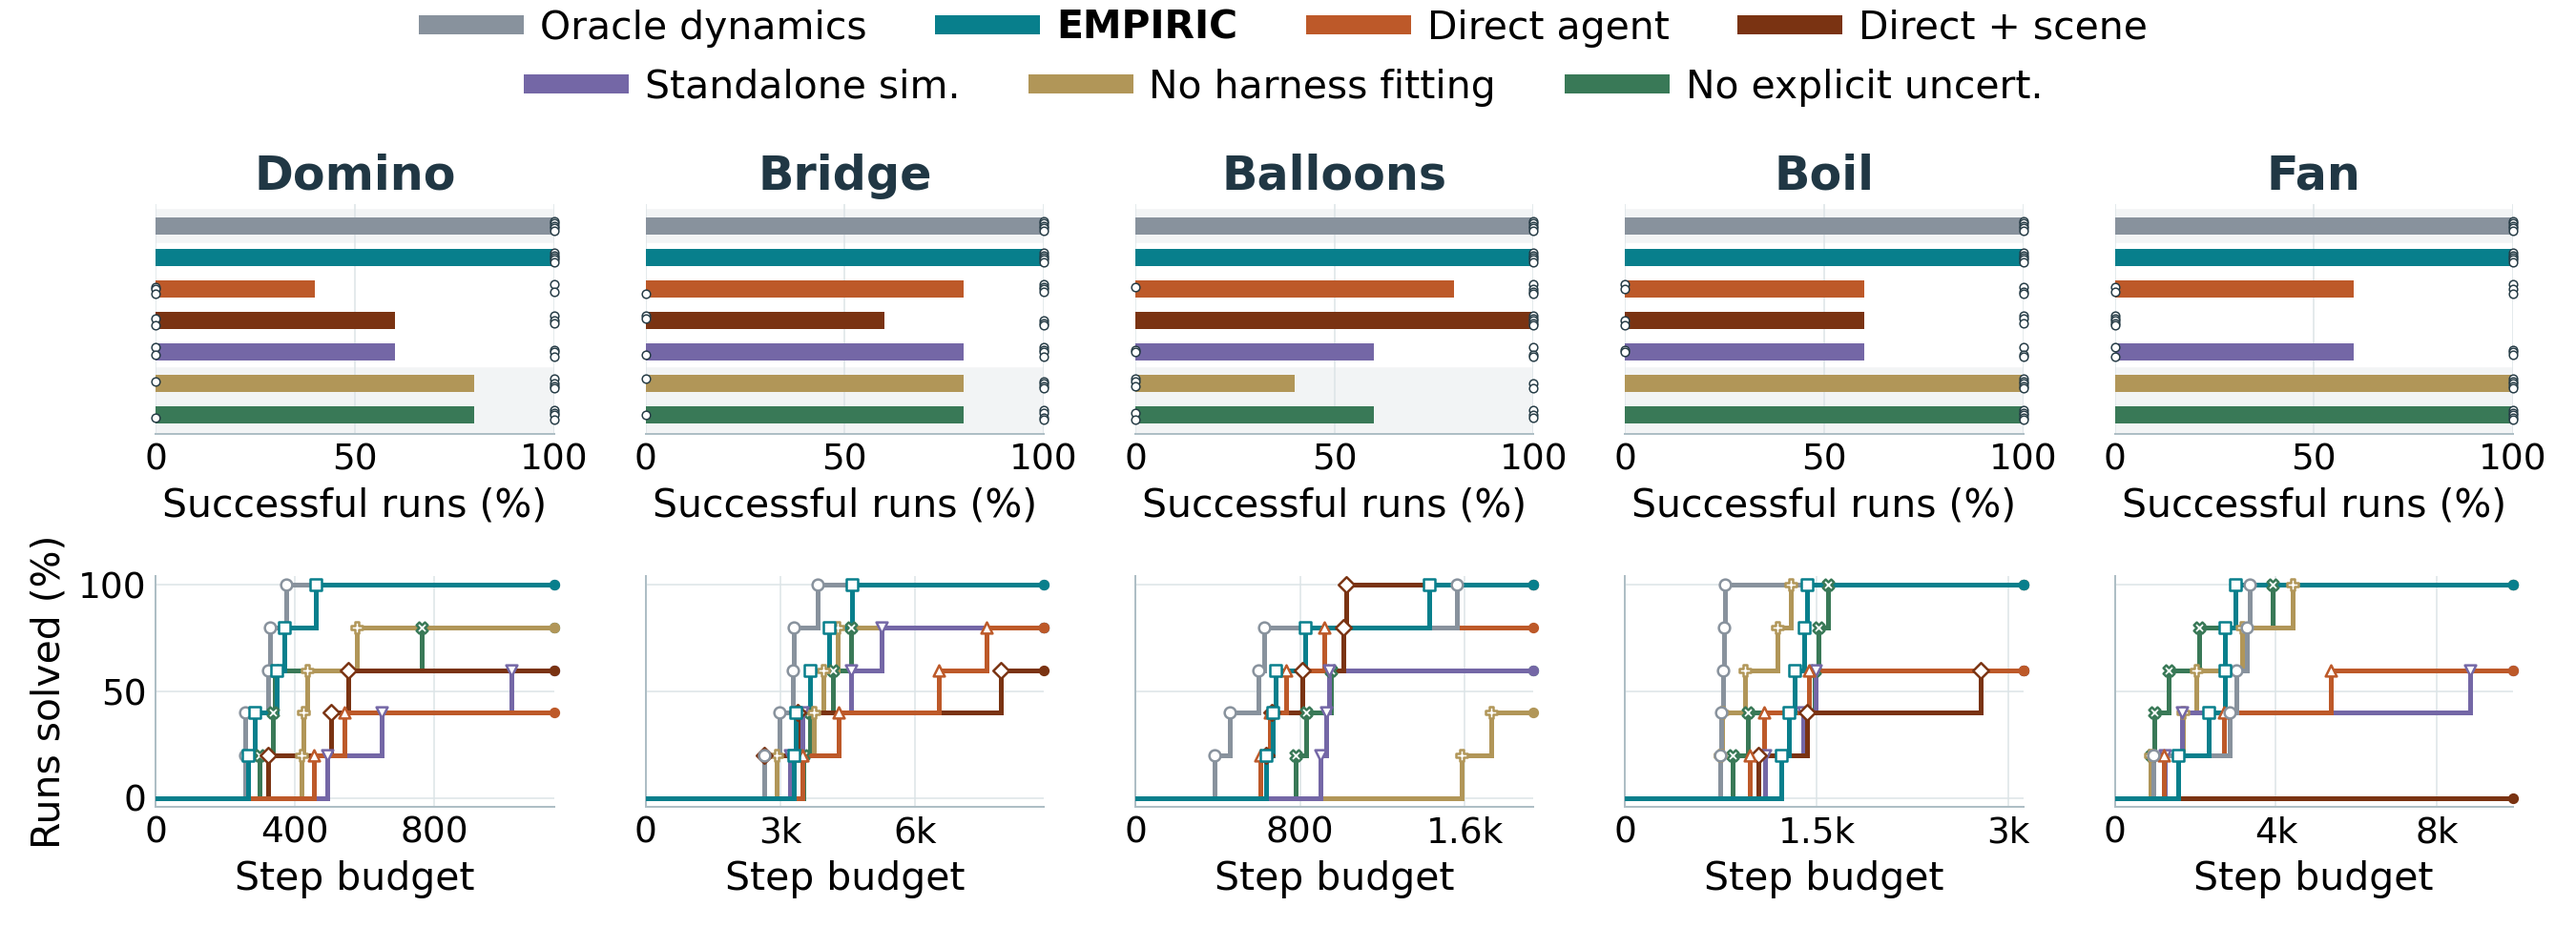
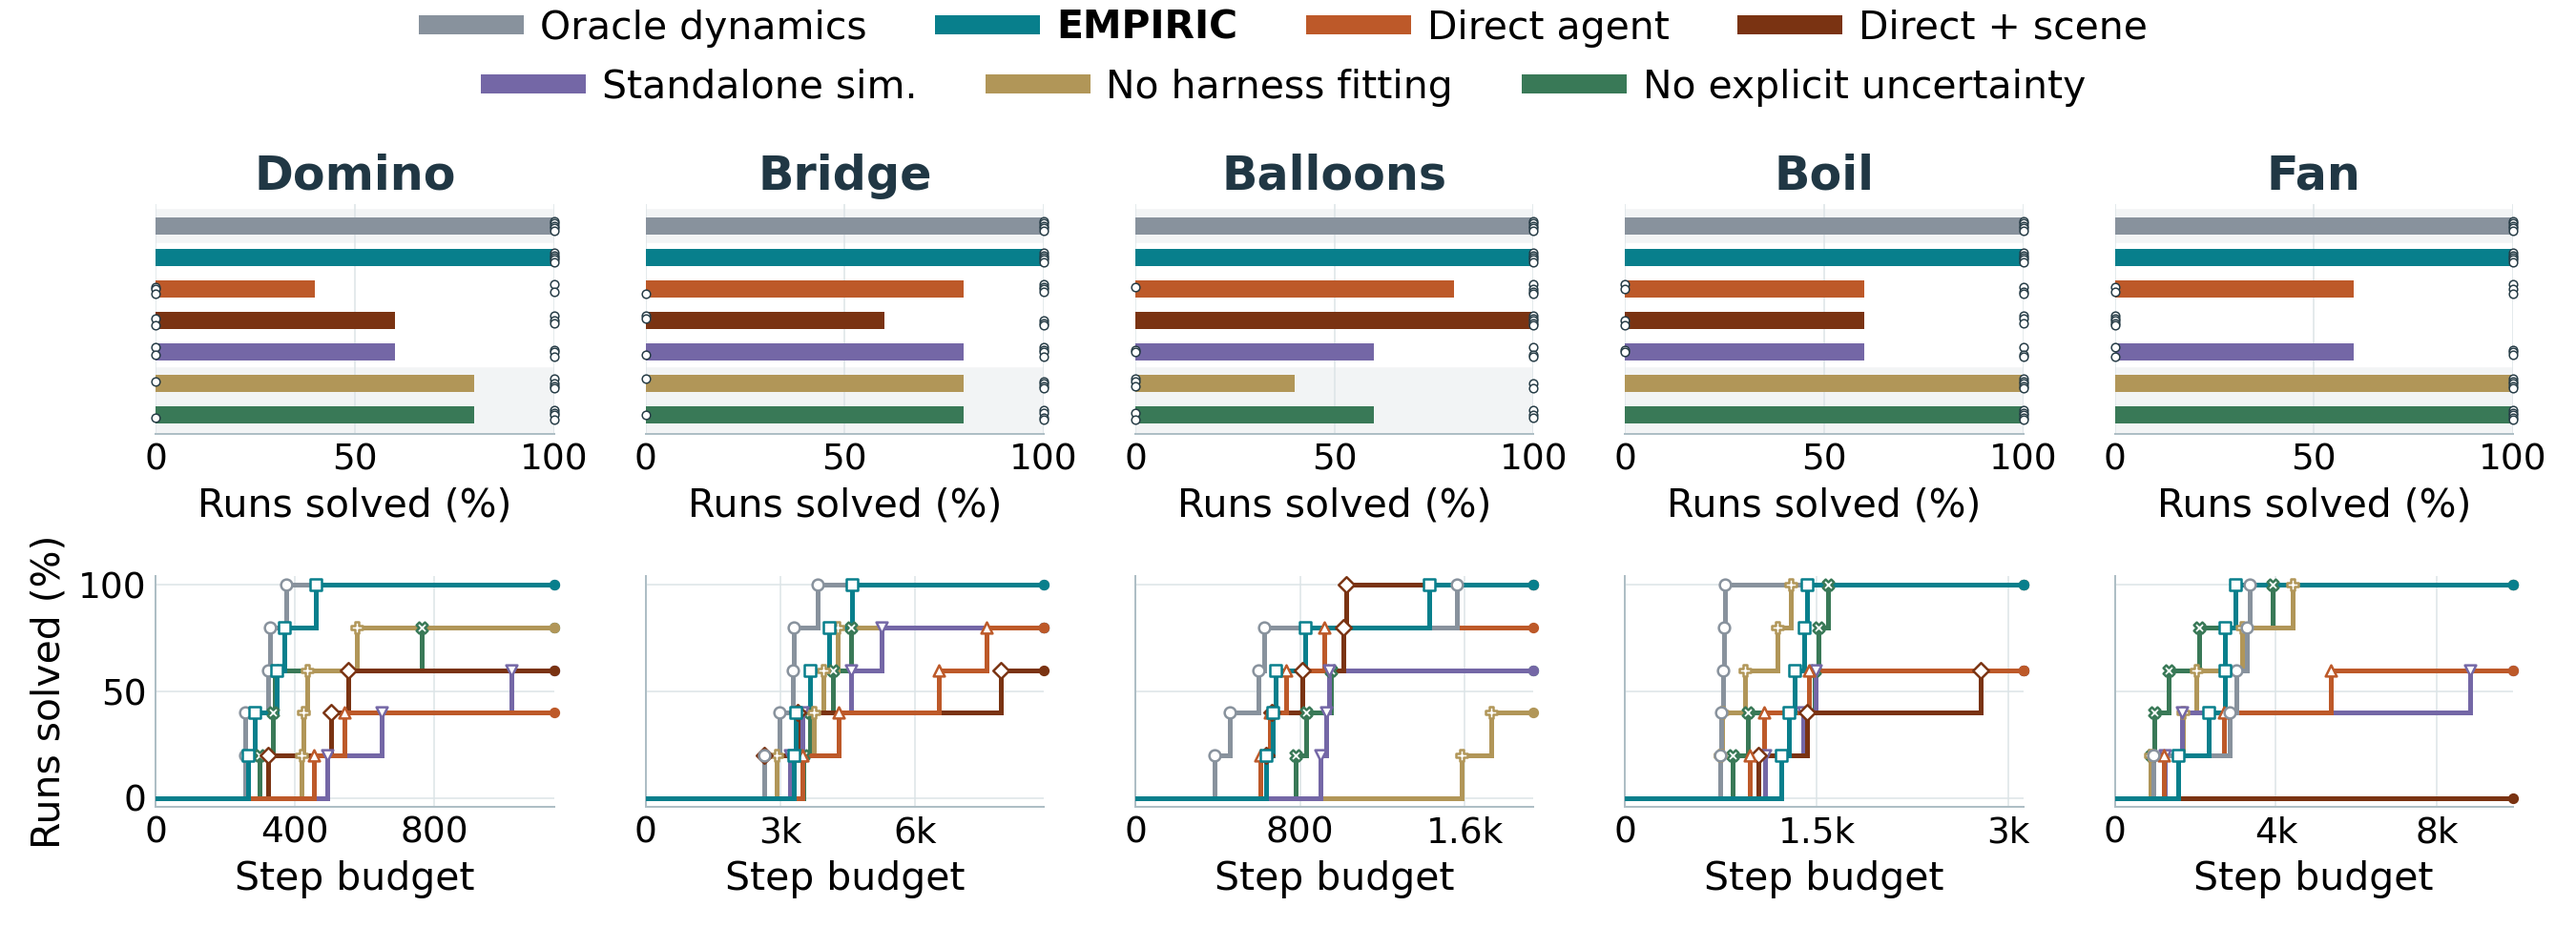
Clarify the text inside the paper figures
Figure 1 infers the program's parameters and names the Balloons and Fan mechanisms as the paper's domain list does.
Figure 2 says that the agent infers its belief and checks each skill with predicates, and that a failed check makes it update its belief, replan, or revise.
The results plot labels both panels "Runs solved (%)" and spells out No explicit uncertainty.
The run stripes say rollouts and gray, use the present tense, and drop numbers in undefined units.

diff --git a/scripts/paper_figures/build_figures.py b/scripts/paper_figures/build_figures.py
@@ -441,7 +441,7 @@ def teaser() -> None:
     # The same editor colors as Figure 2's listing.
     for i, line in enumerate(GLUE_CODE):
         d.code(192, 48 + 9.6 * i, line, 7.4)
-    d.text(192, 120, "Fit the program to observations.", 8.5, BLACK)
+    d.text(192, 120, "Infer its parameters from data.", 8.5, BLACK)
     d.photo("bridge_exec_04_done",
             376,
             28,
@@ -458,8 +458,8 @@ def teaser() -> None:
     d.arrow(163, 66, 181, 66)
     d.arrow(347, 66, 365, 66)
     mechanisms = [
-        "Contact & friction", "Glue & bonds", "Lift & damping",
-        "Filling & heat", "Wind-driven motion"
+        "Contact & friction", "Glue & bonds", "Lift & bursts",
+        "Filling & heat", "Airflow & drag"
     ]
     source_order = ["Boil", "Domino", "Fan", "Bridge", "Balloons"]
     d.rect(0, top - 8, 528, 2 * h + 42, fill=PANEL, stroke=EDGE)
@@ -530,7 +530,7 @@ def _panel(d: Drawing,
 
 # The glue program and its revision of the first contact test.
 METHOD_CODE = GLUE_CODE[:3] + [
-    "-     if centres_close(j):", "+     if faces_meet(j):"
+    "-     if centers_close(j):", "+     if faces_meet(j):"
 ] + GLUE_CODE[4:]
 # Predicates the agent writes with the program; the monitor checks them.
 PREDICATE_CODE = ["def Attached(a, b): ...", "def SeatedOn(s, l): ..."]
@@ -780,19 +780,20 @@ ACT_CAPTION: List[List[Segment]] = [["The agent executes a plan or an"],
 CODE_CAPTION: List[List[Segment]] = [["The agent writes the glue physics"],
                                      ["and predicates for skill outcomes."]]
 THETA_CAPTION: List[List[Segment]] = [[
-    "The data ", ("D", "i"), " give a belief ", ("q", "i"), "(", ("θ", "i"),
-    ") over"
+    "The agent infers a belief ", ("q", "i"), "(", ("θ", "i"), ") over"
 ], ["the cure time; the dots are draws."]]
 STATE_CAPTION: List[List[Segment]] = [
     ["Noisy readings pin down the pose;"],
     ["the joint's cure progress is hidden."],
-    ["Short cure times bond it (green)."],
+    ["It bonds (green) if curing is quick."],
 ]
 PLAN_CAPTION: List[List[Segment]] = [["Rehearse plans under the draws;"],
                                      ["run the likeliest, or experiment."]]
-MONITOR_CAPTION: List[List[Segment]] = [[
-    "The predicates ", ("Φ", "i"), " check each skill's"
-], ["outcome; a failure stops the plan."]]
+MONITOR_CAPTION: List[List[Segment]] = [
+    ["The agent checks each skill with"],
+    ["predicates in ", ("Φ", "i"), "; a failed check"],
+    ["stops the plan."],
+]
 
 # Each step's title takes its colour from this table. Acting and monitoring
 # meet the environment (rust), writing the program is purple, inference is
@@ -826,7 +827,7 @@ def method() -> None:
     for i, (mark, atom, color) in enumerate(CHECKS):
         d.text(10, YB + 52 + 11.5 * i, mark, 8.6, color, "bold")
         d.text(22, YB + 52 + 11.5 * i, atom, 7.2, INK, mono=True)
-    d.text(22, YB + 87, "→ stop: refit, replan, or revise", 7.2, RUST)
+    d.text(10, YB + 87, "→ stop: update belief, replan, or revise", 7.2, RUST)
     # The monitor runs after each skill, and the plan continues only when
     # every check passes; a failure stops it inside the monitor panel.
     gap = (PH + YB) / 2
@@ -1032,18 +1033,18 @@ def _robot_stripe() -> Stripe:
     # frame's caption states.
     assert [round(100 * v, 1) for v in reproduced["slide_m"]] == predicted
     seconds = [
-        f"stays upright, {slides[1]['slide_cm']:.1f} cm",
+        "stays upright",
         f"falls flat, slides {slides[2]['slide_cm']:.1f} cm",
         "",
-        "grey knocks green",
-        f"slid {slides[3]['slide_cm']:.1f} cm, as predicted",
+        "gray knocks green",
+        f"{slides[3]['slide_cm']:.1f} cm, as predicted",
     ]
     frames: List[StripeFrame] = [
         (FIG / "sources" / f"{frame['name']}.png", None, frame["label"],
          second, False) for frame, second in zip(robot["frames"], seconds)
     ]
     frames[2] = (FIG / "sources/real_fan_domino_model_tip_cycles.png",
-                 robot["crop"], "Stand grey upwind",
+                 robot["crop"], "Stand gray upwind",
                  f"green slides {predicted[0]:.1f}±{predicted[1]:.1f} cm",
                  True)
     return Stripe("Real robot", frames, ROBOT_FH, 1, ("P", "θ"))

diff --git a/scripts/plotting/plot_benchmark_arms.py b/scripts/plotting/plot_benchmark_arms.py
@@ -49,7 +49,7 @@ ARMS = [
 LABELS = [
     "Oracle dynamics", "EMPIRIC", "Direct agent",
     "Direct agent + scene assets", "Standalone sim.", "No harness fitting",
-    "No explicit uncert.", "EMPIRIC + scene pkg.", "Scene only",
+    "No explicit uncertainty", "EMPIRIC + scene pkg.", "Scene only",
     "Zero-shot model", "Agentic real-to-sim", "EMPIRIC from assets"
 ]
 COLORS = [
@@ -640,7 +640,7 @@ def render(rows: List[Row],
                              fontweight="bold",
                              color="#203744",
                              pad=6 if paper else 12)
-                ax.set_xlabel("Successful runs (%)", fontsize=fonts.label)
+                ax.set_xlabel("Runs solved (%)", fontsize=fonts.label)
             elif field == "steps":
                 maximum = max(
                     (r["steps"] for r in rows

diff --git a/scripts/paper_figures/import_real_robot_frames.py b/scripts/paper_figures/import_real_robot_frames.py
@@ -30,9 +30,9 @@ DRIVE = ("https://drive.google.com/drive/folders/"
 # the agent does; build_figures.py adds what follows.
 SELECTION = [
     ("casc_explore.mp4", 1655, 1, "Blow at green"),
-    ("casc_explore.mp4", 4313, 2, "Blow at grey"),
-    ("casc_test.mp4", 2505, 3, "Stand grey upwind"),
-    ("casc_test.mp4", 2595, 3, "Blow at grey"),
+    ("casc_explore.mp4", 4313, 2, "Blow at gray"),
+    ("casc_test.mp4", 2505, 3, "Stand gray upwind"),
+    ("casc_test.mp4", 2595, 3, "Blow at gray"),
     ("casc_test.mp4", 2800, 3, "Goal reached"),
 ]
 # Keeps the gripper at the button, the fan, both blocks, and both patch
